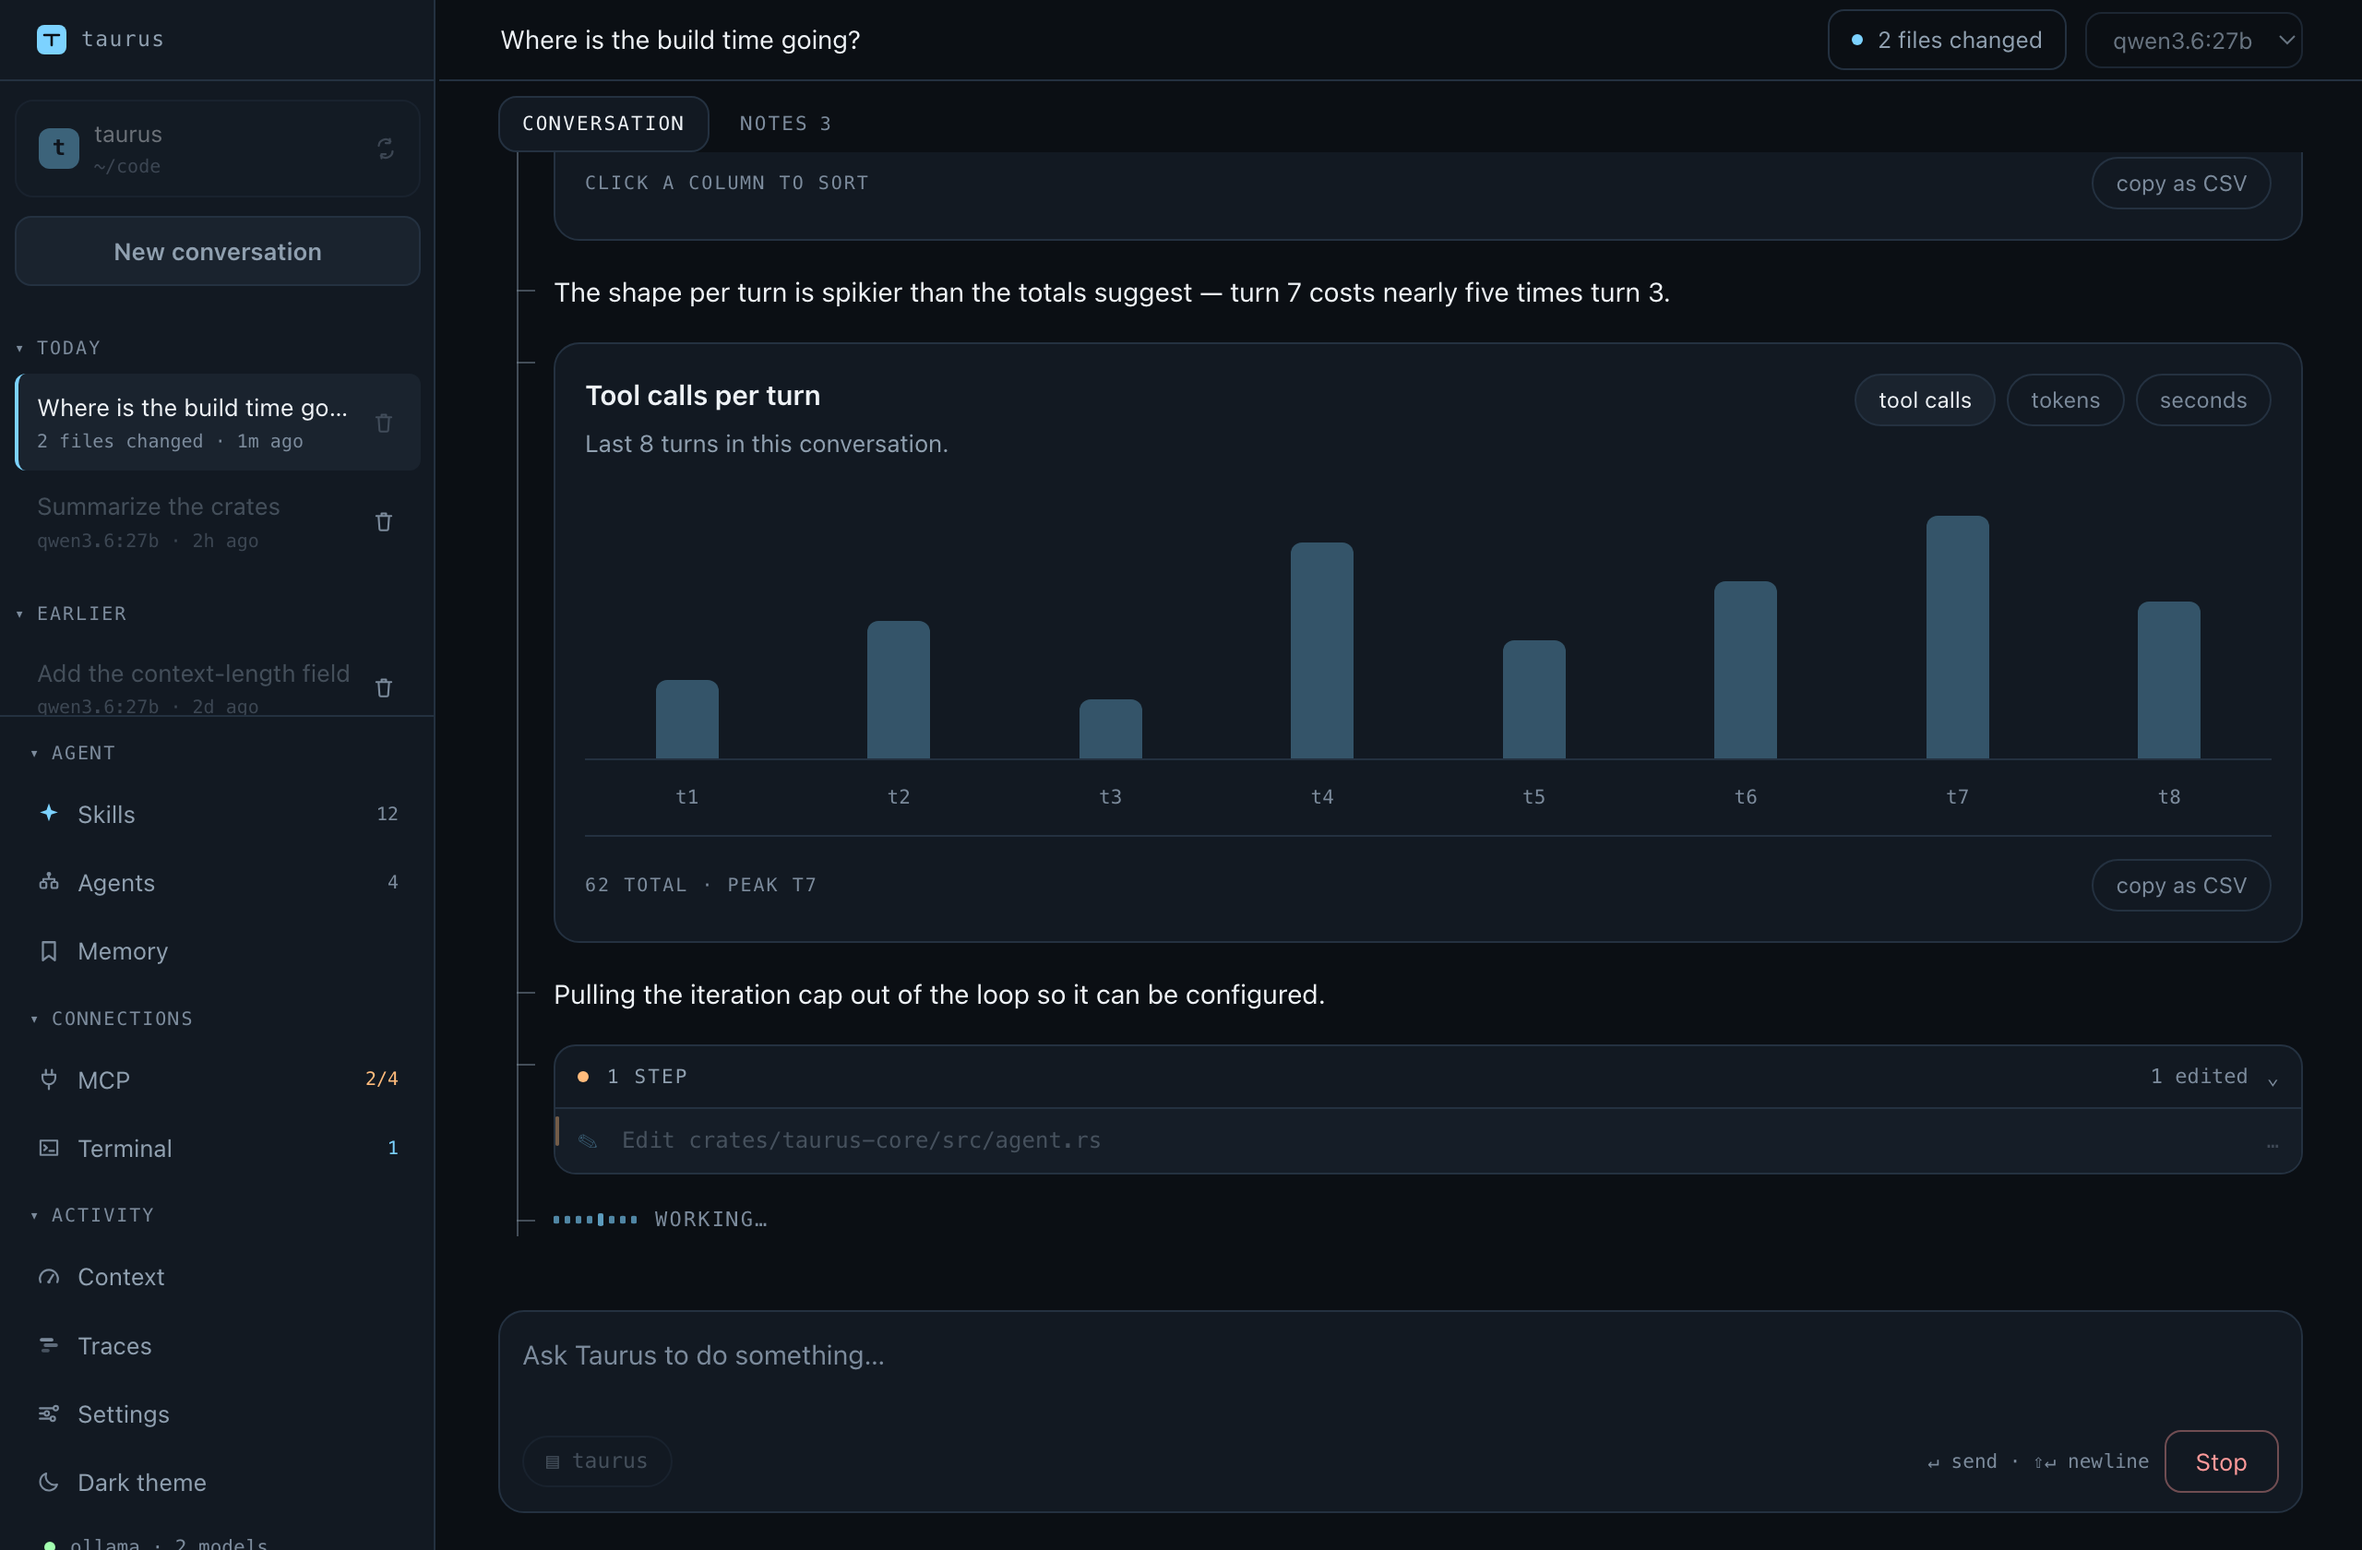
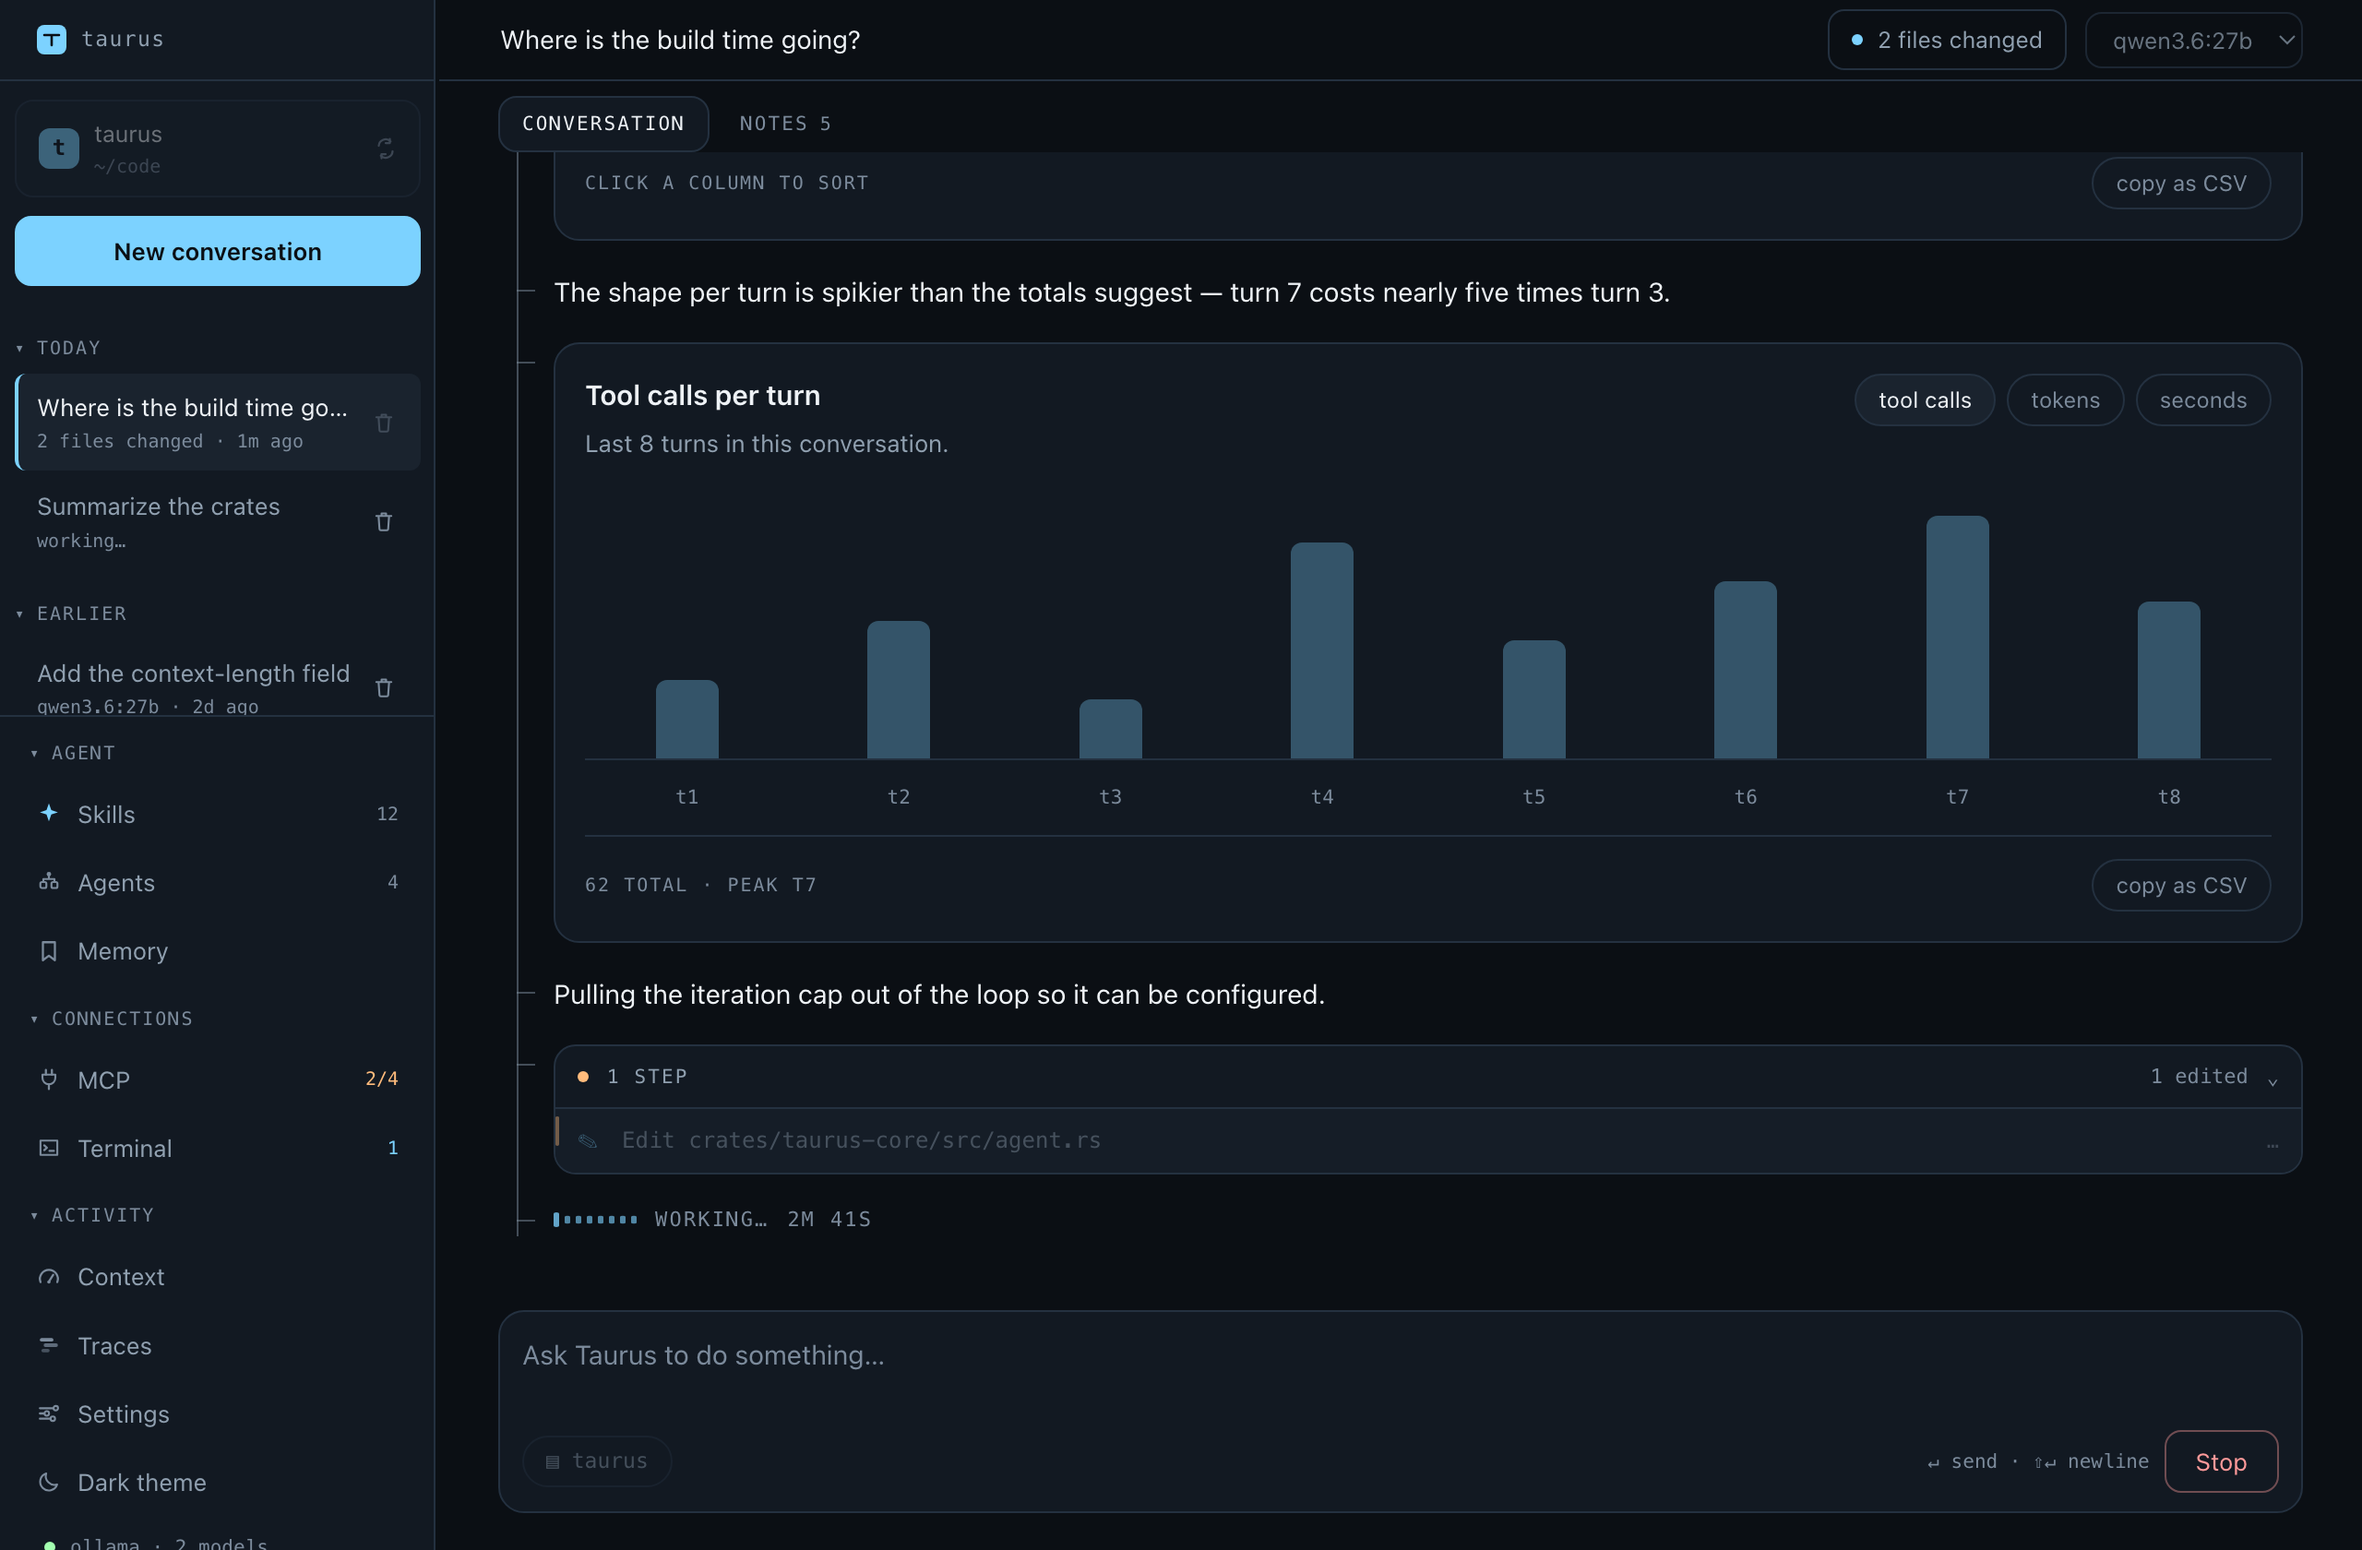
docs: say that leaving a conversation leaves the turn running
`working-with-it.md` had no answer for what happens to a turn you switch away
from, because until now the answer was "it dies". The workspace rule is
widened to match: any turn anywhere blocks a folder change, not only the one
on screen.

Closes the elapsed-counter gap — a turn carries its start time now, and the
working line counts up. Opens three: a turn still dies with the process, the
replay kept for a window that was not watching is capped, and a permission
prompt does not say which conversation is asking, which is new because a
conversation you are not looking at can now be the one asking.

The motion screenshot is retaken: it is the picture of both new things, a
conversation working in the rail and the clock on the working line.

Changed region(s): [[0.0, 0.1238, 0.1875, 0.1857], [0.0312, 0.4333, 0.125, 0.4643], [0.0312, 0.3095, 0.0625, 0.3714]]

diff --git a/scripts/screenshots/main.tsx b/scripts/screenshots/main.tsx
@@ -128,6 +128,13 @@ function typeInto(box: HTMLTextAreaElement | HTMLInputElement, text: string) {
 const ANSWERS: Record<string, unknown> = {
   get_status: { ...STATUS, settings: { ...STATUS.settings, theme } },
   list_sessions: SESSIONS,
+  // Which conversations are working. The motion scene overrides it below: a
+  // turn left running in another conversation is the one thing on the rail
+  // that only exists while something is.
+  running_sessions: [],
+  // Every scene opens a conversation, and opening one asks whether a turn is
+  // running in it. Only the motion scene has one, and it is seeded directly.
+  attach_session: { turn: null, dropped: 0 },
   list_models: MODELS,
   list_checkpoints: CHECKPOINTS,
   repo_status: REPO,
@@ -292,6 +299,15 @@ requestAnimationFrame(() => {
       // from the category of the call that is running, so the picture is only
       // honest if a call really is.
       busy: shot === "motion",
+      // The turn's own clock and the rail's marker, which only exist while
+      // something is running. `started_at` is Unix seconds counted back from
+      // now, so the reading is the same in every capture.
+      ...(shot === "motion"
+        ? {
+            turn: { started_at: Math.floor(Date.now() / 1000) - 154, iteration: 6 },
+            running: ["s1", "s2"],
+          }
+        : {}),
       entries: (
         shot === "motion"
           ? MOTION_EVENTS

diff --git a/docs/known-gaps.md b/docs/known-gaps.md
@@ -933,13 +933,40 @@ the backlog, and they're the minority.
   the harness classifying tools by something other than effect. Effect is
   what the categories exist to capture, and it's what the run header counts.
   The shape is a useful hint about the kind of work, not a readout.
-- **Nothing says how long a turn has been running.** The motion says a turn is
-  alive. It doesn't say whether *alive* means forty seconds or four minutes.
-  The design's own working state pairs its waveform with an elapsed counter,
-  which Taurus can't draw honestly. A tool call carries its own start time,
-  but a turn doesn't, and a resumed conversation carries neither. A finished
-  run reports its duration in the run header, which leaves exactly the case
-  you'd want it for uncovered.
+- **A turn dies with the process.** It survives everything inside the window —
+  a reload, a switch to another conversation, the conversation being closed —
+  because the turn belongs to the conversation rather than to the call that
+  started it. It does not survive the app going away. Quitting, a crash, or a
+  machine going to sleep costs the round in flight.
+
+  What is lost is bounded and it is the same thing a crash has always cost:
+  the transcript is written once per tool round trip, so the conversation is
+  complete to the end of the last recorded round and reopens there. What is
+  gone is whatever the round in progress had done — including a tool call that
+  ran, since a call is recorded with the round that holds it.
+
+  Covering it means journaling the round as it happens and replaying it on
+  start, and the hard part isn't the journal. It's deciding what a half-run
+  tool call means: a `write_file` that landed, recorded nowhere, is a change
+  the conversation doesn't know it made.
+- **What a turn kept for a window that wasn't watching is capped.** Reopening a
+  conversation mid-turn reads the transcript, which is complete to the last
+  recorded round, and the harness replays the round in progress on top of it.
+  That replay is held in memory and capped at 256 KB of text.
+
+  A round that says more than that — a reasoning model thinking at length, a
+  tool returning something large — loses its oldest part, and a window
+  attaching afterwards says so where the gap is instead of quietly beginning
+  mid-sentence. Reopening again once the round is recorded reads all of it from
+  the transcript. The cap only ever costs what is on screen, never the record.
+- **A permission prompt doesn't say which conversation is asking.** Now that a
+  turn keeps running in a conversation you've left, a prompt can arrive from
+  one that isn't on screen, and the dialog names the call rather than the
+  conversation: you get "run `cargo test`" with no way to tell which of two
+  running turns wants it. The call itself is the thing being decided, so the
+  decision is sound; what's missing is where it came from. It needs a
+  conversation's id on the request, which the prompt is built without — see
+  `UiPrompts` in the desktop app.
 - **A query card stands alone, so a query-heavy turn is a stack of cards.**
   Any tool call that draws a view is left out of the folded run header.
   That's what stops a table getting filed under "6 steps · 11s" behind a

diff --git a/docs/working-with-it.md b/docs/working-with-it.md
@@ -20,6 +20,17 @@ taurus run --resume <ID> "and now…"   # continue a named one
 The desktop app reopens the workspace's last conversation on launch. The left
 rail lists the rest, today's first, so switching is one click, not a drawer.
 
+Switching doesn't stop the turn you're leaving. A conversation mid-turn keeps
+working: it keeps calling tools, keeps writing its transcript, and keeps the
+files it changes on its own undo history. The rail says `working…` under every
+conversation that's running, and going back to one picks the turn up where it
+is — the part already recorded from its transcript, the round in progress from
+the harness. The working line in the transcript counts up, so you can see how
+long it's been going.
+
+Stop is the only thing that ends a turn early. Leaving a conversation, opening
+another, starting a new one, reloading the window: none of them stop anything.
+
 You can switch model or backend and keep the conversation. Pick another from
 the topbar and the transcript comes with it. That's the point: you usually
 want a second opinion on the question you just asked. A line marks the switch
@@ -53,7 +64,9 @@ turn sent to a conversation from another folder is refused. The backend
 enforces that, not the window.
 
 You can't change folders mid-turn either. The move reconnects every MCP
-server, so the turn's tools would start failing mid-call. Stop the turn first.
+server, so the turn's tools would start failing mid-call. Stop the turn first —
+any turn, in any conversation, not only the one on screen. The rail's workspace
+button says so while something is running.
 
 A conversation shows up in the rail as soon as you ask the first question,
 not when the answer arrives. A two-minute turn is listed, with its name, the
@@ -67,6 +80,11 @@ clicking away saves, Escape discards, and an empty field restores the derived
 name. The name lives in the transcript's header, so it travels with the
 conversation and survives being copied out. You can rename mid-turn, since
 that touches nothing the turn is writing.
+
+Closing the window still ends everything. A turn lives in the app's process,
+so quitting costs the round in flight — the conversation survives, complete to
+the end of the last recorded round, because the transcript is written as the
+turn goes.
 
 Transcripts live in `~/.taurus/sessions/<workspace>/<id>.jsonl`, in the
 global config home, not the project. They hold file contents, command output,
